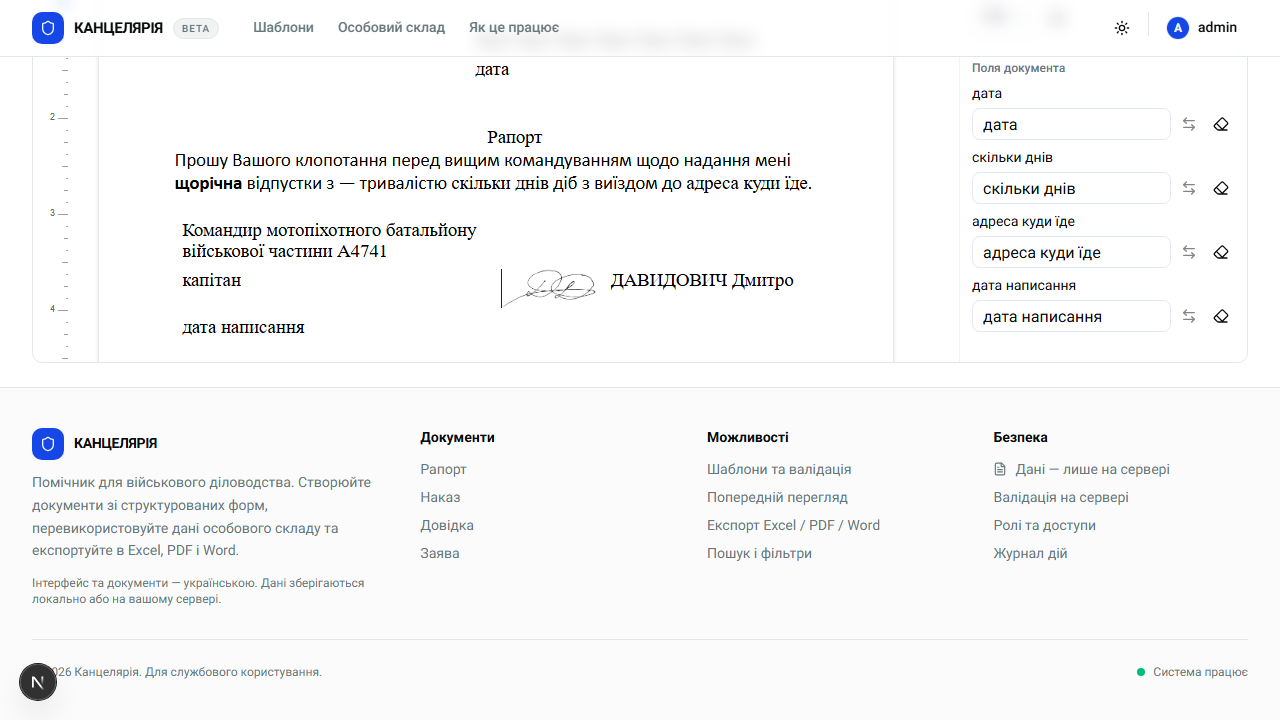
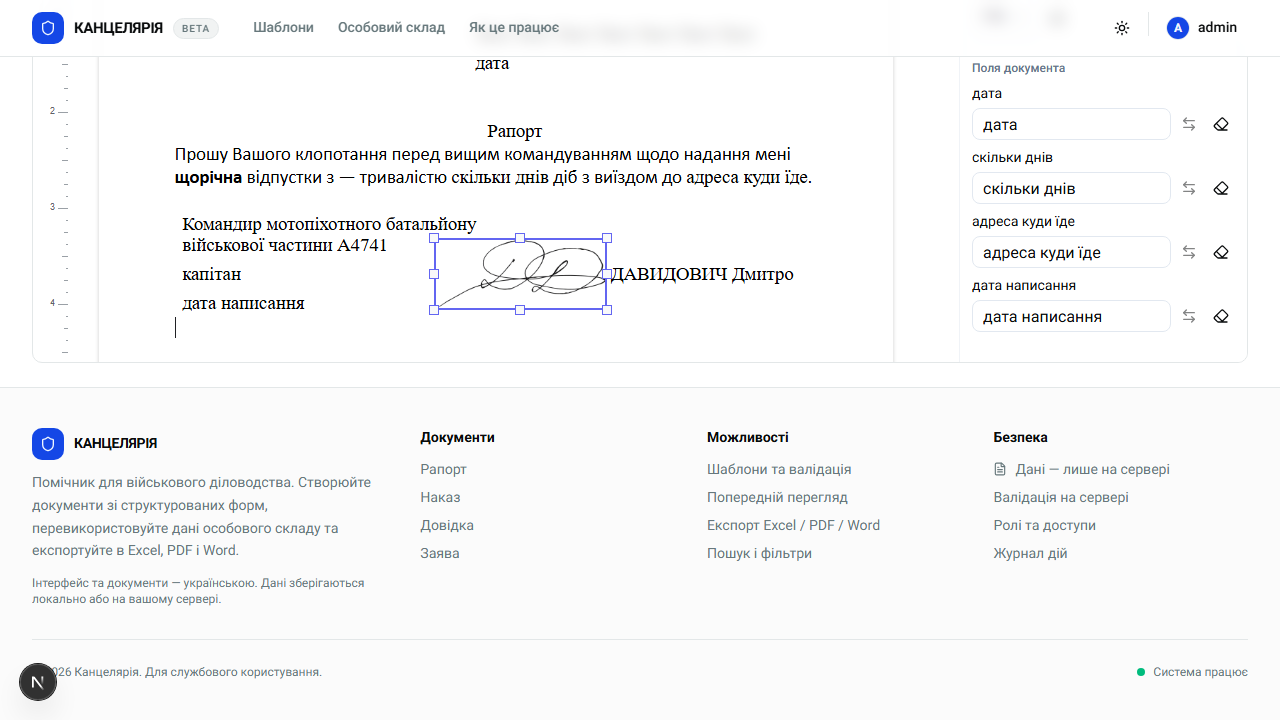
тепер 100% все работает
101%

Changed region(s): [[0.125, 0.3056, 0.625, 0.4889], [0.125, 0.1528, 0.6562, 0.275], [0.375, 0.0611, 0.4062, 0.1222]]

diff --git a/components/documents/docx-editor/fill-panel.tsx b/components/documents/docx-editor/fill-panel.tsx
@@ -77,23 +77,22 @@ export function FillPanel({
   const [selected, setSelected] = React.useState<Record<string, string>>({})
   const [simpleValues, setSimpleValues] = React.useState<Record<string, string>>({})
   const [status, setStatus] = React.useState<string | null>(null)
-  // Активні підписи: tag → { мітка заповнення, id вставленого drawing }. Слухач
-  // change нижче повертає назву полю, коли картинка підпису зникла.
-  const sigMarkers = React.useRef<Map<string, { marker: string; drawingId: string }>>(new Map())
+  // Активні підписи: tag → id плаваючого drawing. Слухач change нижче повертає
+  // назву полю, коли картинка підпису зникла.
+  const sigMarkers = React.useRef<Map<string, { drawingId: string }>>(new Map())
 
   // Дефолтне значення поля — його назва. Коли користувач видаляє картинку підпису,
   // полю автоматично повертається назва — поле знову можна заповнити (хоч скільки
   // разів). Ознака живого підписа — drawing за id у DOM. Він може з'явитись із
   // запізненням на кілька кадрів після вставки, тому перед «смертю» підписа
-  // коротко перепитуємо верстку; хром контрола — лише декорація (boundary +
-  // label-чип), вона не придатна для перевірки вмісту.
+  // коротко перепитуємо верстку.
   React.useEffect(() => {
     if (!editor) return
     let checkQueued = false
     const sleep = (ms: number) => new Promise((resolve) => setTimeout(resolve, ms))
     const drawingAlive = (drawingId: string) =>
       Boolean(document.querySelector(`[data-drawing-node-id="${drawingId}"]:not(.docx-image-selection-overlay)`))
-    const verify = async (tag: string, info: { marker: string; drawingId: string }) => {
+    const verify = async (tag: string, info: { drawingId: string }) => {
       for (let attempt = 0; attempt < 6; attempt++) {
         if (bounceSuspend.active || sigMarkers.current.get(tag) !== info) return
         if (drawingAlive(info.drawingId)) return
@@ -130,11 +129,12 @@ export function FillPanel({
     [personnel]
   )
 
-  // Підпис: зображення з картки персоналії → всередину поля-контрола (inline).
-  // Контрол сам ховає назву, коли має вміст, а семантика поля зберігається у DOCX:
-  // SDT з тегом залишається в документі разом із картинкою. Повторне заповнення
-  // перезаписує вміст контрола, видалення картинки користувачем відстежує слухач
-  // change (назва повертається автоматично).
+  // Підпис: зображення з картки персоналії → плаваючий шар «перед текстом»
+  // (фіксований розмір, не ростить рядок) зі сторінковою позицією «зліва від
+  // ПІБ». Якір — останній абзац документа поза таблицею: рендер не малює
+  // anchored-картинки, що виходять за межі комірки якоря. Контрол поля при цьому
+  // НЕ чіпаємо структурно (тег/назва лишаються в DOCX): назва ховається на час
+  // заповненості і повертається, коли картинку видалили (слухач change).
   async function fillSignature(key: string, person: EditorPersonnel): Promise<boolean> {
     const surface = editor?.surface
     if (!surface || !person.signaturePath) return false
@@ -149,48 +149,65 @@ export function FillPanel({
 
     bounceSuspend.begin()
     let ok = false
+    let drawingId: string | null = null
     try {
-      // Знімок id наявних drawing — ДО будь-яких мутацій: нова картинка може
-      // відрендеритись синхронно, і пізніший знімок включив би її в «старі».
+      // Попередній плаваючий підпис поля прибираємо за id (без виділення)
+      const previous = sigMarkers.current.get(key)
+      sigMarkers.current.delete(key)
+      if (previous) surface.deleteImage(previous.drawingId)
+
+      const personKey = key.replace(/^signature/, "person")
+      const heightEmu = Math.round(SIGNATURE_HEIGHT_PT * 12700)
+      const widthEmu = Math.round((normalized.widthPoints / normalized.heightPoints) * heightEmu)
+      const widthPx = widthEmu / 9525
+      const heightPx = heightEmu / 9525
+
+      // Геометрія полів ДО вставки: плаваюча картинка рядок не ростить, тож
+      // вимірювання залишаються валідними і після wrap. Коротке опитування хромів.
+      let pageRect: DOMRect | null = null
+      let sigRect: DOMRect | null = null
+      let personLefts: number[] = []
+      for (let attempt = 0; attempt < 20 && !pageRect; attempt++) {
+        const sigChrome = document.querySelector<HTMLElement>(`.docx-content-control-chrome[data-tag="${key}"]`)
+        const personChrome = document.querySelector<HTMLElement>(`.docx-content-control-chrome[data-tag="${personKey}"]`)
+        sigRect = sigChrome?.querySelector<HTMLElement>(".docx-content-control-boundary")?.getBoundingClientRect() ?? null
+        personLefts = [...(personChrome?.querySelectorAll<HTMLElement>(".docx-content-control-boundary") ?? [])].map(
+          (b) => b.getBoundingClientRect().left,
+        )
+        pageRect = (sigChrome?.closest(".docx-editor-page") ?? sigChrome?.closest("[class*='docx-page']"))?.getBoundingClientRect() ?? null
+        if (!pageRect || !sigRect || personLefts.length === 0) {
+          pageRect = null
+          await new Promise((resolve) => setTimeout(resolve, 25))
+        }
+      }
+      if (!pageRect || !sigRect || personLefts.length === 0) return false
+
+      // Якір: останній абзац документа з w14:paraId (адресований; поза таблицею)
+      const anchorParaId = [...editor.query({ type: "paragraphs" })].filter((p) => p.paraId).at(-1)?.paraId
+      if (!anchorParaId) return false
+      if (!editor.exec({ type: "setSelection", anchor: { paraId: anchorParaId } }).ok) return false
+
+      // Знімок id наявних drawing — ДО мутацій: нова картинка може відрендеритись
+      // синхронно, і пізніший знімок включив би її в «старі».
       const knownIds = new Set(
         [...document.querySelectorAll<HTMLElement>("[data-drawing-node-id]")].map((el) => el.getAttribute("data-drawing-node-id") ?? ""),
       )
-      // Скидаємо попередній вміст контрола (стара картка зникає разом із міткою)
-      // і ставимо невидиму мітку: 12 нуль-шириних символів (U+2060/U+200B), біти
-      // хешу controlId — унікальна послідовність, у абзаці зустрічається рівно
-      // один раз. Мітка адресує каретку всередині контрола й лишається в документі
-      // (невидима в прев'ю і в Word).
-      sigMarkers.current.delete(key)
-      const idNum = [...controlId].reduce((acc, ch) => (acc * 31 + ch.charCodeAt(0)) % 4096, 7)
-      const marker = Array.from({ length: 12 }, (_, i) => ((idNum >> i) & 1 ? "\u200b" : "\u2060")).join("")
-      if (!surface.contentControls.setValue(controlId, marker)) return false
 
-      // Абзац мітки: коротке опитування, поки верстка флешне новий текст (зазвичай 1-й тик)
-      let paraId: string | undefined
-      for (let attempt = 0; attempt < 20 && !paraId; attempt++) {
-        const found = editor.query({ type: "paragraphs" }).find((p) => p.paraId && p.text.includes(marker))
-        paraId = found?.paraId
-        if (!paraId) await new Promise((resolve) => setTimeout(resolve, 25))
-      }
-      if (!paraId) return false
-
-      // Каретка на мітку (всередину контрола) → inline-зображення на її місці.
-      // Якщо комірка вужча за картинку, движок сам пропорційно зменшить вставку.
-      const anchored = editor.exec({ type: "setSelection", anchor: { paraId: paraId, search: marker } })
-      if (!anchored.ok) return false
       const result = await editor.executeImageCommand({
         type: "insertImage",
         data: normalized.bytes,
         mime: normalized.mime,
-        widthPoints: Math.max(24, Math.round((normalized.widthPoints / normalized.heightPoints) * SIGNATURE_HEIGHT_PT)),
-        heightPoints: SIGNATURE_HEIGHT_PT,
+        // Мікро-розмір: проміжний inline-кадр, якщо він відрендериться, —
+        // невидима крапка, а не картинка на новому рядку
+        widthPoints: 2,
+        heightPoints: 2,
       })
       if (!result.ok) return false
 
-      // Id вставленого drawing: виділення або DOM-диф (виділення буває скинутим,
-      // якщо перед вставкою щось змінило модель).
-      let drawingId: string | null = editor.getSelectedImage()?.id ?? null
-      for (let attempt = 0; attempt < 20 && !drawingId; attempt++) {
+      // Id вставленого drawing: виділення або короткий DOM-диф (виділення
+      // буває скинутим, якщо перед вставкою щось змінило модель)
+      drawingId = editor.getSelectedImage()?.id ?? null
+      for (let attempt = 0; attempt < 8 && !drawingId; attempt++) {
         await new Promise((resolve) => setTimeout(resolve, 25))
         drawingId =
           editor.getSelectedImage()?.id ??
@@ -201,19 +218,56 @@ export function FillPanel({
       }
       if (!drawingId) return false
 
-      sigMarkers.current.set(key, { marker, drawingId })
+      // Один комміт: фіксований розмір + «перед текстом» + позиція «зліва від
+      // ПІБ» — картинка з'являється одразу на місці. Конвертація inline →
+      // anchored рідко змінює id вузла: тоді позиція відмовить, перезнайдемо
+      // id і ретраїмо.
+      const pageXEmu = Math.max(0, Math.round((Math.min(...personLefts) - 4 - widthPx - pageRect.left) * 9525))
+      const pageYEmu = Math.max(0, Math.round((sigRect.top + sigRect.height / 2 - heightPx / 2 - pageRect.top) * 9525))
+      let positioned = false
+      for (let attempt = 0; attempt < 6 && !positioned; attempt++) {
+        const applied = surface.applyDrawingOps([
+          { op: "resizeDrawing", drawingNodeId: drawingId, extentEmu: { cx: widthEmu, cy: heightEmu } },
+          { op: "setDrawingWrap", drawingNodeId: drawingId, wrap: "inFront" },
+          {
+            op: "positionDrawing",
+            drawingNodeId: drawingId,
+            position: { horizontalEmu: pageXEmu, relativeToH: "page", verticalEmu: pageYEmu, relativeToV: "page" },
+          },
+        ])
+        positioned = applied.committed
+        if (positioned) break
+        const fresh = [...document.querySelectorAll<HTMLElement>("[data-drawing-node-id]")]
+          .map((el) => el.getAttribute("data-drawing-node-id") ?? "")
+          .find((id) => !knownIds.has(id))
+        if (fresh) drawingId = fresh
+        await new Promise((resolve) => setTimeout(resolve, 120))
+      }
+      if (!positioned) return false
+
+      // Ховаємо назву поля («Підпис») — картинка її замінила
+      surface.contentControls.setValue(controlId, "")
+      sigMarkers.current.set(key, { drawingId })
       ok = true
       return true
     } finally {
       bounceSuspend.end()
-      // Невдала вставка не має лишати контрол з невидимою міткою — повертаємо назву
-      if (!ok) surface.contentControls.setValue(controlId, label)
+      if (!ok) {
+        // Невдале заповнення: прибираємо щойно вставлену картинку, назва повертається
+        if (drawingId) surface.deleteImage(drawingId)
+        surface.contentControls.setValue(controlId, label)
+      }
     }
   }
   function setValueByTag(key: string, value: string): boolean {
     if (!editor) return false
-    // Перезапис вмісту контрола прибирає й картинку підпису — знімаємо маркер
-    sigMarkers.current.delete(key)
+    // Плаваюча картинка підпису живе поза контролом — при перезаписі вмісту
+    // поля прибираємо її за id
+    const previous = sigMarkers.current.get(key)
+    if (previous) {
+      editor.surface?.deleteImage(previous.drawingId)
+      sigMarkers.current.delete(key)
+    }
     const controls = editor.query({ type: "contentControls", filter: { tag: key } })
     let applied = controls.length > 0
     for (const control of controls) {
